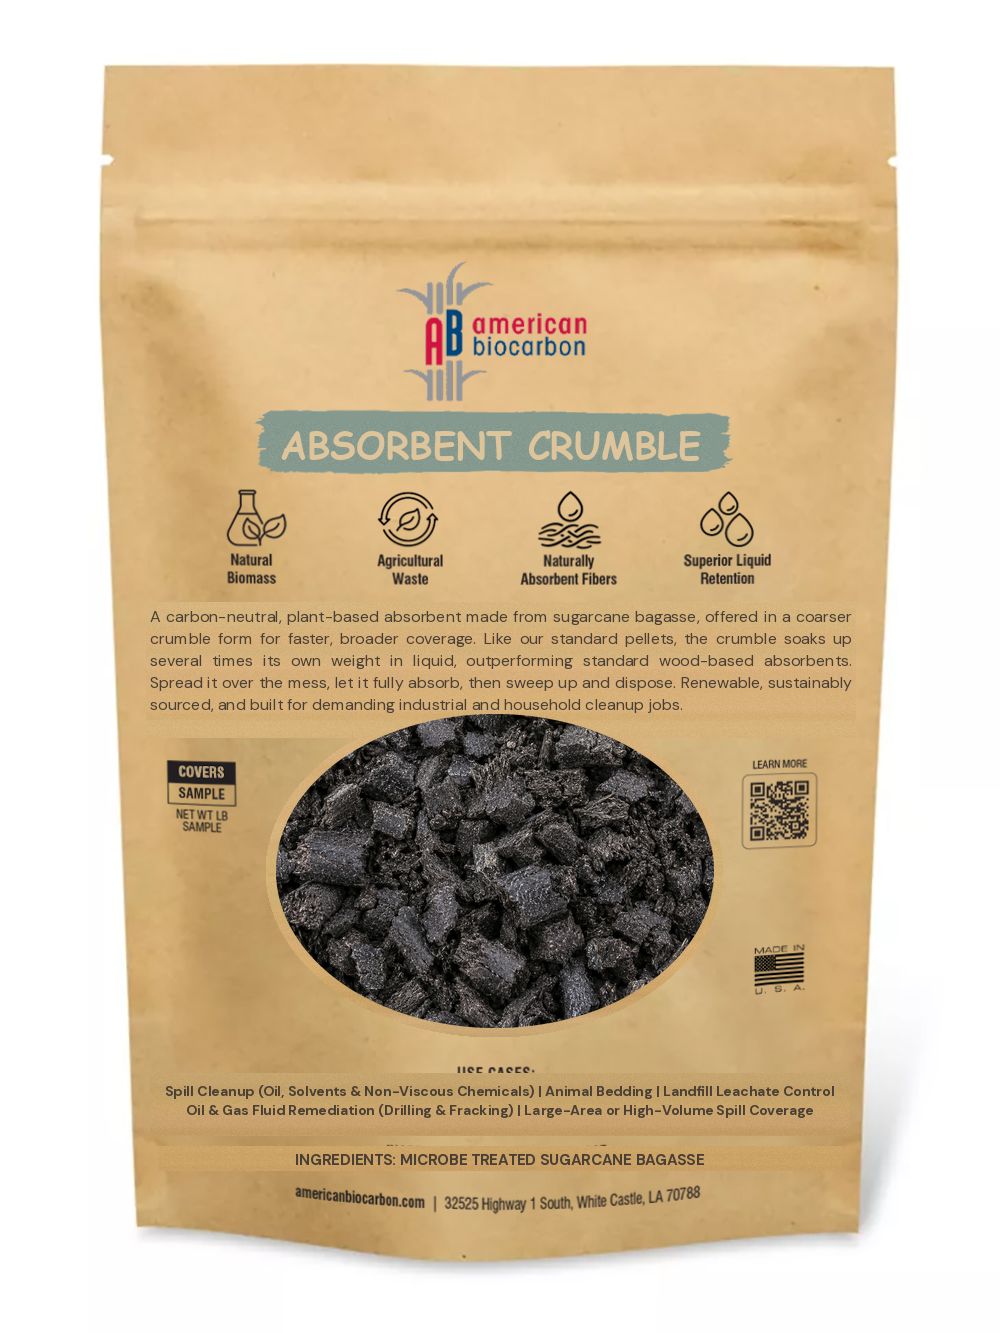
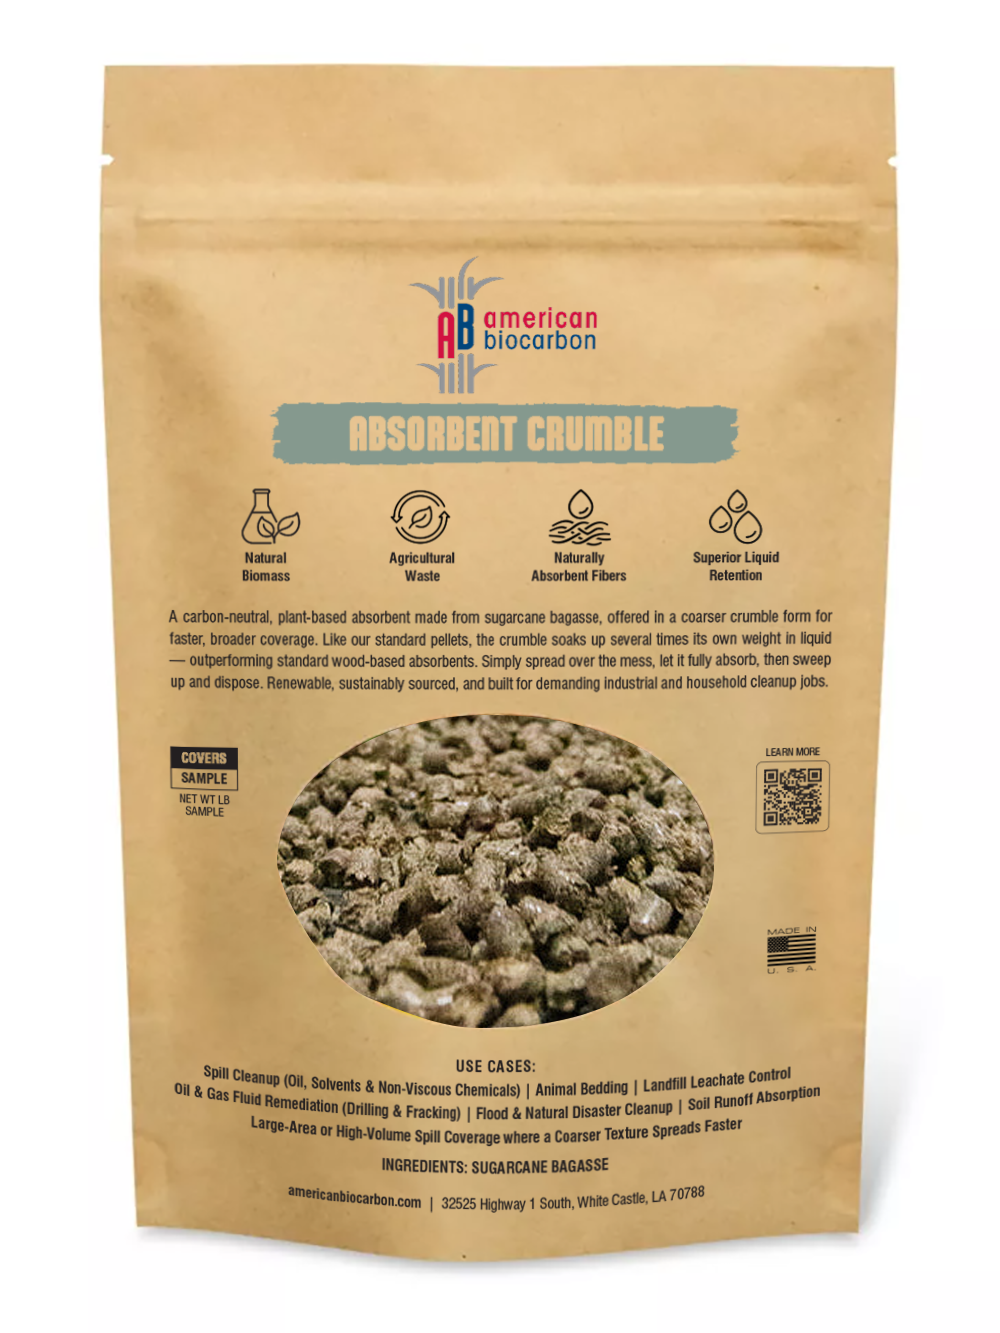
Add canonical Absorbent Crumble bag render and biochar bulk super sack photo

diff --git a/data.js b/data.js
@@ -20,7 +20,8 @@ const ASSETS = {
   biocharSem: "assets/products/biochar-sem-structure.png",
   fiberBag:   "assets/products/multi-use-fiber-bag.png",
   soilBag:    "assets/products/biochar-infused-soil-bag.png",
-  crumbleBag: "assets/products/absorbent-crumble-bag.png?v=v2",
+  crumbleBag: "assets/products/absorbent-crumble-bag.png?v=v3",
+  biocharBulkPhoto:"assets/products/biochar-bulk-supersack.jpg?v=v1",
   crumblePhoto:"assets/products/absorbent-crumble-photo.jpg?v=v2",
   hands:      CDN+"hands.webp?v=1686923164",
   /* high-res wide hero photos (1920×801 native, master ≥3840), from the live site carousel */
@@ -347,12 +348,12 @@ const HOME = {
         uses:["Soil amendment for gardens, beds, and lawns","Water and nutrient retention","Supports faster compost cycles","Carbon negative soil carbon storage"],
         chips:["1 metric ton bulk bag","OMRI listed","100% bagasse"], unit:"1 Metric Ton Bulk Bag", price:400, priceLabel:"$400 / metric ton", photo:ASSETS.biocharPhoto,
         desc:"The same OMRI listed 100% bagasse biochar sold as a 1 metric ton bulk bag, ready for immediate purchase.",
-        gallery:[],
+        gallery:[ ASSETS.biocharBulkPhoto, ASSETS.biocharBag ],
         sections:[
           { h:"How to use", body:"A general guideline is 10 to 25 pounds of biochar per 100 square feet. Loosen the soil and remove debris, remove 2 to 3 inches of topsoil, sprinkle the biochar, then replace the topsoil." },
           { h:"Water and nutrient retention", body:"OMRI listed bagasse biochar holds up to 3 to 3.5 times its weight in water, improving moisture and nutrient retention and supporting soil microbiology." },
         ],
-        img:"", variantId:"", docIds:["spec","sds"] },
+        img:ASSETS.biocharBulkPhoto, variantId:"", docIds:["spec","sds"] },
       { id:"absorbent-crumble", name:"Absorbent Crumble", avail:"live", cat:"Absorbents", category:"Industrial Absorbent · Large Area Spills", accent:"aqua",
         claim:"Higher coverage, faster absorption, quicker cleanup. A coarser grade that spreads fast across a wide footprint with the same high capacity.",
         uses:["Large area and high volume spill coverage","Fast, broad application","Disaster and flood cleanup"],

diff --git a/about/index.html b/about/index.html
@@ -90,7 +90,7 @@
 
   <footer class="site"><div class="wrap" id="footer"><!-- injected --></div></footer>
 
-  <script src="data.js?v=1cbacc94" defer></script>
+  <script src="data.js?v=e5d6a5b4" defer></script>
   <script src="app.js?v=06185cfa" defer></script>
 </body>
 </html>

diff --git a/buy/index.html b/buy/index.html
@@ -90,7 +90,7 @@
 
   <footer class="site"><div class="wrap" id="footer"><!-- injected --></div></footer>
 
-  <script src="data.js?v=1cbacc94" defer></script>
+  <script src="data.js?v=e5d6a5b4" defer></script>
   <script src="app.js?v=06185cfa" defer></script>
 </body>
 </html>

diff --git a/compare/index.html b/compare/index.html
@@ -90,7 +90,7 @@
 
   <footer class="site"><div class="wrap" id="footer"><!-- injected --></div></footer>
 
-  <script src="data.js?v=1cbacc94" defer></script>
+  <script src="data.js?v=e5d6a5b4" defer></script>
   <script src="app.js?v=06185cfa" defer></script>
 </body>
 </html>

diff --git a/distributors-resellers-agriculture/index.html b/distributors-resellers-agriculture/index.html
@@ -90,7 +90,7 @@
 
   <footer class="site"><div class="wrap" id="footer"><!-- injected --></div></footer>
 
-  <script src="data.js?v=1cbacc94" defer></script>
+  <script src="data.js?v=e5d6a5b4" defer></script>
   <script src="app.js?v=06185cfa" defer></script>
 </body>
 </html>

diff --git a/distributors-resellers-industries/index.html b/distributors-resellers-industries/index.html
@@ -90,7 +90,7 @@
 
   <footer class="site"><div class="wrap" id="footer"><!-- injected --></div></footer>
 
-  <script src="data.js?v=1cbacc94" defer></script>
+  <script src="data.js?v=e5d6a5b4" defer></script>
   <script src="app.js?v=06185cfa" defer></script>
 </body>
 </html>

diff --git a/environmental-remediation-solutions/index.html b/environmental-remediation-solutions/index.html
@@ -90,7 +90,7 @@
 
   <footer class="site"><div class="wrap" id="footer"><!-- injected --></div></footer>
 
-  <script src="data.js?v=1cbacc94" defer></script>
+  <script src="data.js?v=e5d6a5b4" defer></script>
   <script src="app.js?v=06185cfa" defer></script>
 </body>
 </html>

diff --git a/index.html b/index.html
@@ -87,7 +87,7 @@
 
   <footer class="site"><div class="wrap" id="footer"><!-- injected --></div></footer>
 
-  <script src="data.js?v=1cbacc94" defer></script>
+  <script src="data.js?v=e5d6a5b4" defer></script>
   <script src="app.js?v=06185cfa" defer></script>
 </body>
 </html>

diff --git a/industry/animal-bedding/index.html b/industry/animal-bedding/index.html
@@ -90,7 +90,7 @@
 
   <footer class="site"><div class="wrap" id="footer"><!-- injected --></div></footer>
 
-  <script src="data.js?v=1cbacc94" defer></script>
+  <script src="data.js?v=e5d6a5b4" defer></script>
   <script src="app.js?v=06185cfa" defer></script>
 </body>
 </html>

diff --git a/industry/industrial-remediation/index.html b/industry/industrial-remediation/index.html
@@ -90,7 +90,7 @@
 
   <footer class="site"><div class="wrap" id="footer"><!-- injected --></div></footer>
 
-  <script src="data.js?v=1cbacc94" defer></script>
+  <script src="data.js?v=e5d6a5b4" defer></script>
   <script src="app.js?v=06185cfa" defer></script>
 </body>
 </html>

diff --git a/industry/landfill-leachate/index.html b/industry/landfill-leachate/index.html
@@ -90,7 +90,7 @@
 
   <footer class="site"><div class="wrap" id="footer"><!-- injected --></div></footer>
 
-  <script src="data.js?v=1cbacc94" defer></script>
+  <script src="data.js?v=e5d6a5b4" defer></script>
   <script src="app.js?v=06185cfa" defer></script>
 </body>
 </html>

diff --git a/industry/oil-gas/index.html b/industry/oil-gas/index.html
@@ -90,7 +90,7 @@
 
   <footer class="site"><div class="wrap" id="footer"><!-- injected --></div></footer>
 
-  <script src="data.js?v=1cbacc94" defer></script>
+  <script src="data.js?v=e5d6a5b4" defer></script>
   <script src="app.js?v=06185cfa" defer></script>
 </body>
 </html>
